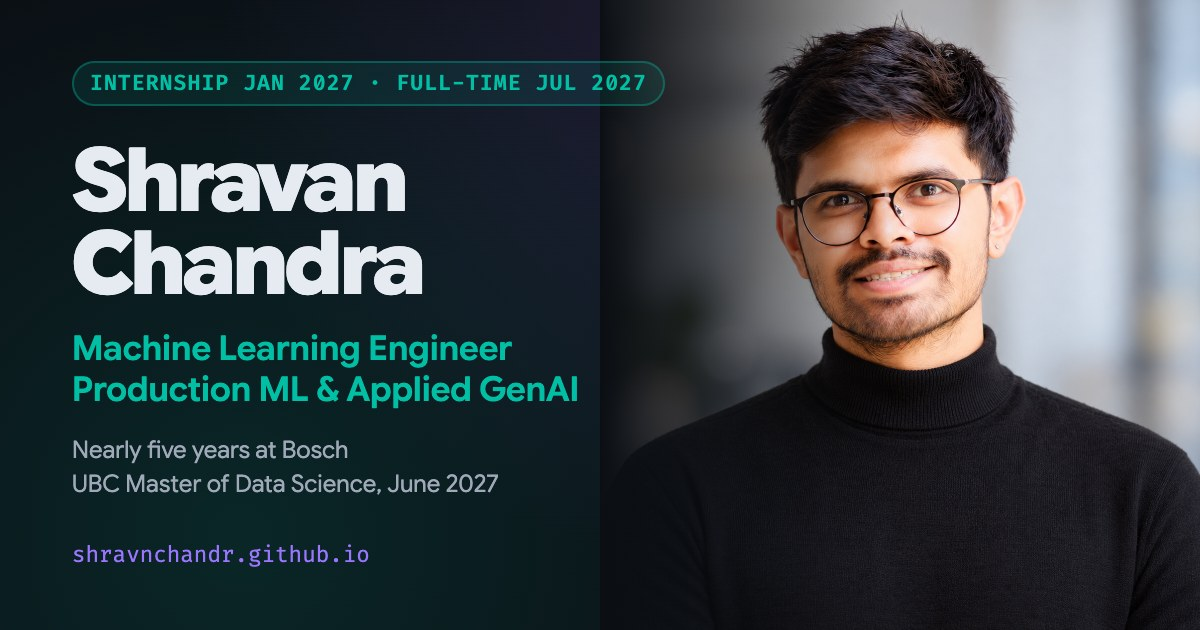
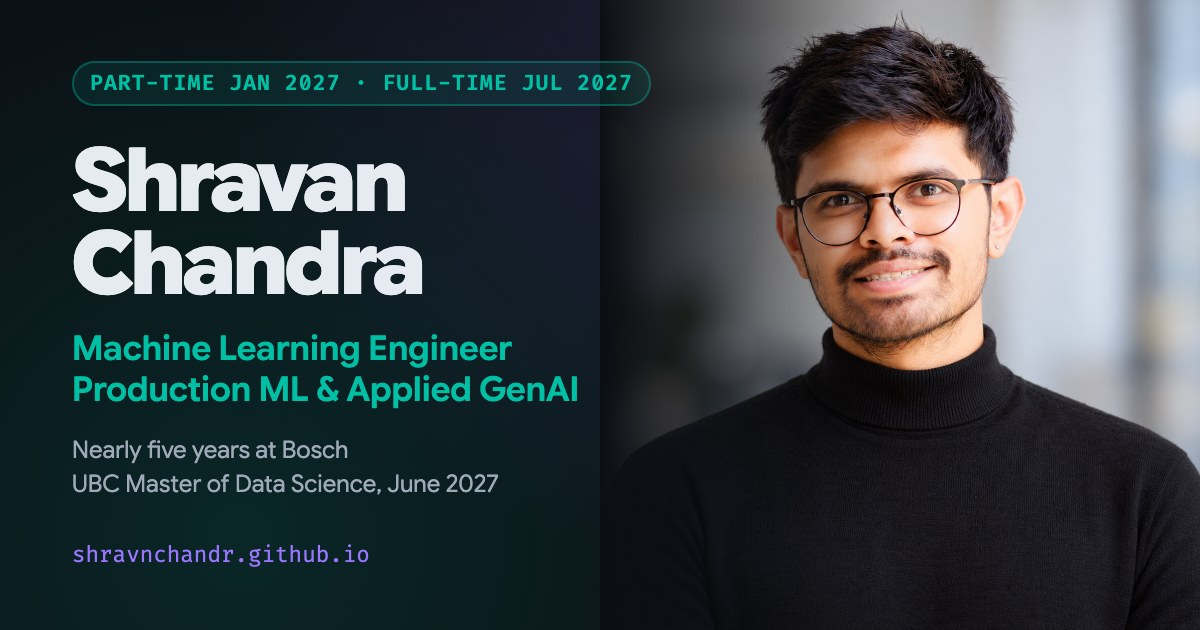
fix: availability wording, experience counts, savings qualifier; update résumé
- Availability: ML Engineer or Data Scientist roles — part-time from Jan 2027
  (up to 24 h/week, study permit), full-time from Jul 2027; "co-op" and
  "internship" wording removed; link-preview card re-rendered
- "~5" / "nearly 5 years" at Bosch; Goldman Sachs labelled as an internship
- €300K+ marked as an estimated annualized figure everywhere it appears
- Pipeline replay HUD says REPLAY, not LIVE
- Social-card source uses relative paths
- Résumé PDF regenerated

Changed region(s): [[0.0617, 0.0905, 0.555, 0.181]]

diff --git a/html/story.html b/html/story.html
@@ -2,7 +2,7 @@
     <div class="v2-inner">
         <div class="v2-section-header">
             <span class="v2-code-label">// 02 · EXPERIENCE</span>
-            <span class="v2-code-label">5+ years · 4 roles · nearly 3 in ML</span>
+            <span class="v2-code-label">Nearly 5 years · 4 roles · nearly 3 in ML</span>
         </div>
         <h2 id="story-heading" class="v2-section-h2 animate-on-scroll">Production ML, in the wild.</h2>
 
@@ -13,7 +13,7 @@
                 <div class="v2-tl-main">
                     <h3 class="v2-tl-title">Senior Machine Learning Engineer</h3>
                     <div class="v2-tl-org">Bosch Global Software Technologies · Bengaluru</div>
-                    <p class="v2-tl-outcome">Shortened component testing cycles by 4 months — €300K+ in annual savings — with a production anomaly-detection pipeline.</p>
+                    <p class="v2-tl-outcome">Shortened component testing cycles by 4 months — an estimated €300K+ in annualized savings — with a production anomaly-detection pipeline.</p>
                     <ul class="v2-tl-bullets">
                         <li><strong>Cut data lookups from 10–15 minutes of manual work to a 1–2 minute natural-language request.</strong> Orchestrated Valfred, a multi-agent GenAI assistant for natural-language querying of Bosch’s LEEPA/WebDVP testing platforms: vector-based schema retrieval and self-healing SQL agents, ~81% of test queries answered correctly within three attempts, deployed via MLflow and Unity Catalog on Databricks (beta, ~30 users).</li>
                         <li><strong>Reduced per-partition telemetry processing time by over 50%.</strong> Architected a Databricks/PySpark batch pipeline ingesting 80+ TB of high-frequency sensor data, using query optimizations and broadcast joins.</li>
@@ -61,7 +61,7 @@
             <li class="v2-tl-item" id="role-goldman">
                 <div class="v2-tl-dates">Jan 2021 – Jul 2021</div>
                 <div class="v2-tl-main">
-                    <h3 class="v2-tl-title">Junior Analyst</h3>
+                    <h3 class="v2-tl-title">Junior Analyst (Intern)</h3>
                     <div class="v2-tl-org">Goldman Sachs · Bengaluru · Remote</div>
                     <p class="v2-tl-outcome">Made trade bookings 65% faster by automating booking verification.</p>
                 </div>

diff --git a/dev/social-card.html b/dev/social-card.html
@@ -1,9 +1,9 @@
 <!doctype html><html><head><meta charset="utf-8"><style>
-@font-face { font-family: 'GSF'; src: url('file:///Users/shravan.nyc/Projects/shravnchandr.github.io/GoogleSansFlex-subset.woff2') format('woff2'); font-weight: 100 900; }
+@font-face { font-family: 'GSF'; src: url('../GoogleSansFlex-subset.woff2') format('woff2'); font-weight: 100 900; }
 * { margin:0; padding:0; box-sizing:border-box; }
 body { width:1200px; height:630px; background:#0b0f14; font-family:'GSF', system-ui, sans-serif; overflow:hidden; position:relative; }
 .glow { position:absolute; inset:0; background: radial-gradient(circle at 20% 85%, #00bfa522, transparent 55%), radial-gradient(circle at 60% 10%, #9a76ff22, transparent 55%); }
-.photo { position:absolute; right:0; top:0; width:600px; height:630px; background:url('file:///Users/shravan.nyc/Projects/shravnchandr.github.io/link_preview.png') center 18%/cover no-repeat; }
+.photo { position:absolute; right:0; top:0; width:600px; height:630px; background:url('../link_preview.png') center 18%/cover no-repeat; }
 .fade { position:absolute; right:0; top:0; width:600px; height:630px; background:linear-gradient(90deg, #0b0f14 0%, #0b0f14b3 18%, transparent 50%); }
 .text { position:absolute; left:72px; top:0; height:630px; width:640px; display:flex; flex-direction:column; justify-content:center; }
 .badge { align-self:flex-start; font-family:'Fira Code', ui-monospace, Menlo, monospace; font-size:21px; font-weight:600; letter-spacing:1px; white-space:nowrap; color:#00bfa5; border:2px solid #00bfa555; background:#00bfa51a; padding:8px 16px; border-radius:999px; margin-bottom:34px; }
@@ -14,7 +14,7 @@ h1 { font-size:88px; line-height:0.95; font-weight:800; letter-spacing:-3px; col
 </style></head><body>
 <div class="glow"></div><div class="photo"></div><div class="fade"></div>
 <div class="text">
-  <div class="badge">INTERNSHIP JAN 2027 · FULL-TIME JUL 2027</div>
+  <div class="badge">PART-TIME JAN 2027 · FULL-TIME JUL 2027</div>
   <h1>Shravan<br>Chandra</h1>
   <div class="role">Machine Learning Engineer<br>Production ML &amp; Applied GenAI</div>
   <div class="desc">Nearly five years at Bosch<br>UBC Master of Data Science, June 2027</div>

diff --git a/html/work.html b/html/work.html
@@ -18,7 +18,7 @@
                     <dt>What I owned</dt>
                     <dd>The model end to end: data handling and batch preprocessing of 80+ TB of high-frequency telemetry on Databricks/PySpark, training and validating the autoencoder, and running real-time detection in production.</dd>
                     <dt>Result</dt>
-                    <dd>Testing cycles shortened by <strong>4 months</strong>, with <strong>€300K+</strong> in annual savings; per-partition processing time cut by over 50%.</dd>
+                    <dd>Testing cycles shortened by <strong>4 months</strong>, with an estimated <strong>€300K+</strong> in annualized savings; per-partition processing time cut by over 50%.</dd>
                     <dt>Key decision</dt>
                     <dd>An autoencoder that learns what a normal 12-second measurement window looks like, so one model covers hundreds of components and 100+ ECUs.</dd>
                 </dl>
@@ -35,7 +35,7 @@
             <div>
                 <div class="v2-right-label">// KEY RESULTS</div>
                 <div class="v2-metric-row"><span class="v2-mv" style="color:var(--v2-inference)">4 mo</span><span class="v2-ml">shorter testing cycles</span></div>
-                <div class="v2-metric-row"><span class="v2-mv" style="color:var(--v2-neural)">€300K+</span><span class="v2-ml">annual savings</span></div>
+                <div class="v2-metric-row"><span class="v2-mv" style="color:var(--v2-neural)">€300K+</span><span class="v2-ml">estimated annualized savings</span></div>
                 <div class="v2-metric-row"><span class="v2-mv" style="color:var(--v2-data)">&gt;50%</span><span class="v2-ml">faster per-partition processing</span></div>
                 <div class="v2-code-block">
                     <div class="v2-cb-header">// public-safe overview</div>

diff --git a/html/hero.html b/html/hero.html
@@ -6,7 +6,7 @@
         <div class="v2-hero-left animate-in">
             <div class="v2-status-badge">
                 <span class="v2-status-dot" aria-hidden="true"></span>
-                INTERNSHIP / CO-OP FROM JAN 2027 · FULL-TIME FROM JULY 2027
+                PART-TIME FROM JAN 2027 · FULL-TIME FROM JULY 2027
             </div>
 
             <h1 class="v2-hero-h1">Shravan Chandra</h1>
@@ -109,11 +109,11 @@
             </div>
             <div class="v2-glance-cell">
                 <dt>Looking for</dt>
-                <dd>ML engineering internship / co-op<span>From January 2027, for 4–8 months · full-time from July 2027, after graduating (UBC MDS, June 2027)</span></dd>
+                <dd>ML Engineer or Data Scientist roles<span>Part-time from January 2027 (up to 24 h/week) · full-time from July 2027, after graduating</span></dd>
             </div>
             <div class="v2-glance-cell">
                 <dt>Work authorization</dt>
-                <dd>Eligible to work in Canada<span>Co-op work permit now · PGWP-eligible after graduation · available to interview now</span></dd>
+                <dd>Eligible to work in Canada<span>Via study permit (up to 24 h/week) · PGWP-eligible after graduation · available to interview</span></dd>
             </div>
             <div class="v2-glance-cell">
                 <dt>Strengths</dt>

diff --git a/html/impact.html b/html/impact.html
@@ -8,7 +8,7 @@
             <div class="v2-metric-cell animate-on-scroll">
                 <span class="v2-metric-idx">01</span>
                 <div class="v2-metric-val" style="color:var(--v2-inference)">€300K+</div>
-                <div class="v2-metric-label">Annual savings</div>
+                <div class="v2-metric-label">Est. annualized savings</div>
                 <div class="v2-metric-sub">Bosch predictive maintenance · testing cycles 4 months shorter</div>
                 <div class="v2-metric-basis">Annualized estimate: less test-bench downtime, fewer damaged components</div>
             </div>
@@ -34,9 +34,9 @@
             </div>
             <div class="v2-metric-cell animate-on-scroll">
                 <span class="v2-metric-idx">05</span>
-                <div class="v2-metric-val" style="color:var(--v2-neural)">5+</div>
+                <div class="v2-metric-val" style="color:var(--v2-neural)">~5</div>
                 <div class="v2-metric-label">Years engineering</div>
-                <div class="v2-metric-sub">Nearly 3 of them in ML roles (Aug 2023 – Jun 2026)</div>
+                <div class="v2-metric-sub">Nearly 5 at Bosch (Aug 2021 – Jun 2026), nearly 3 of them in ML roles</div>
             </div>
             <div class="v2-metric-cell animate-on-scroll">
                 <span class="v2-metric-idx">06</span>

diff --git a/html/now.html b/html/now.html
@@ -13,7 +13,7 @@
                 <div class="v2-now-item"><span class="v2-now-num">01</span>Exploring sentence-level ASL translation.</div>
                 <div class="v2-now-item"><span class="v2-now-num">02</span>Training VQ-VAE and CNN-Transformer sign-language models on RunPod GPUs.</div>
                 <div class="v2-now-item"><span class="v2-now-num">03</span>Reading: <em>Designing Machine Learning Systems</em> (Chip Huyen).</div>
-                <div class="v2-now-item"><span class="v2-now-num">04</span>Open to ML engineering internships &amp; co-op from January 2027 (4–8 months), full-time from July 2027 · Canada &amp; US · Remote.</div>
+                <div class="v2-now-item"><span class="v2-now-num">04</span>Open to ML Engineer or Data Scientist roles — part-time from January 2027 (up to 24 h/week), full-time from July 2027 · Canada &amp; US · Remote.</div>
             </div>
 
             <!-- Open source -->

diff --git a/index.html b/index.html
@@ -6,7 +6,7 @@
     <meta name="viewport" content="width=device-width, initial-scale=1.0">
     <title>Shravan Chandra | Machine Learning Engineer · Production ML &amp; Applied GenAI</title>
     <meta name="description"
-        content="Shravan Chandra — Machine Learning Engineer focused on production ML and applied GenAI. Nearly five years building software and ML systems at Bosch; now completing a Master of Data Science at UBC. Open to ML internships and co-op from January 2027, full-time from July 2027.">
+        content="Shravan Chandra — Machine Learning Engineer focused on production ML and applied GenAI. Nearly five years building software and ML systems at Bosch; now completing a Master of Data Science at UBC. Open to ML Engineer or Data Scientist roles: part-time from January 2027, full-time from July 2027.">
 
     <!-- Open Graph -->
     <meta property="og:type"        content="website">

diff --git a/js/search.js b/js/search.js
@@ -56,7 +56,7 @@ const INDEX = [
         type:  'project',
         id:    'case-maintenance',
         label: 'Predictive Maintenance — Bosch',
-        sub:   'Autoencoder anomaly detection · 80+ TB telemetry · €300K+ savings',
+        sub:   'Autoencoder anomaly detection · 80+ TB telemetry · est. €300K+ annualized savings',
         icon:  '⚙',
         tokens: [
             'predictive','maintenance','autoencoder','anomaly','detection',
@@ -229,7 +229,7 @@ const INDEX = [
     {
         type:  'story',
         id:    'goldman',
-        label: 'Goldman Sachs — Junior Analyst',
+        label: 'Goldman Sachs — Junior Analyst (Intern)',
         sub:   'Trade Booking Automation · Finance · Python · 65% faster',
         icon:  '♦',
         tokens: [

diff --git a/html/contact.html b/html/contact.html
@@ -7,7 +7,7 @@
         </h2>
 
         <p class="v2-contact-desc animate-on-scroll stagger-2">
-            ML engineering internships &amp; co-op from January 2027 (4–8 months) · full-time from July 2027 · Canada &amp; US · accessibility-tech collaborations always welcome.
+            ML Engineer or Data Scientist roles · part-time from January 2027 (up to 24 h/week) · full-time from July 2027 · Canada &amp; US · accessibility-tech collaborations always welcome.
         </p>
 
         <div class="v2-contact-actions animate-on-scroll stagger-3">

diff --git a/html/demo.html b/html/demo.html
@@ -64,7 +64,7 @@
                     <div class="v2-demo-hud" aria-hidden="true">
                         <div class="v2-demo-hud-live">
                             <span class="v2-demo-hud-dot"></span>
-                            <span class="v2-demo-hud-live-text">● LIVE</span>
+                            <span class="v2-demo-hud-live-text">● REPLAY</span>
                         </div>
                         <div class="v2-demo-hud-sub">1280×720 · 30fps</div>
                         <div class="v2-demo-hud-sub">webgl backend</div>
